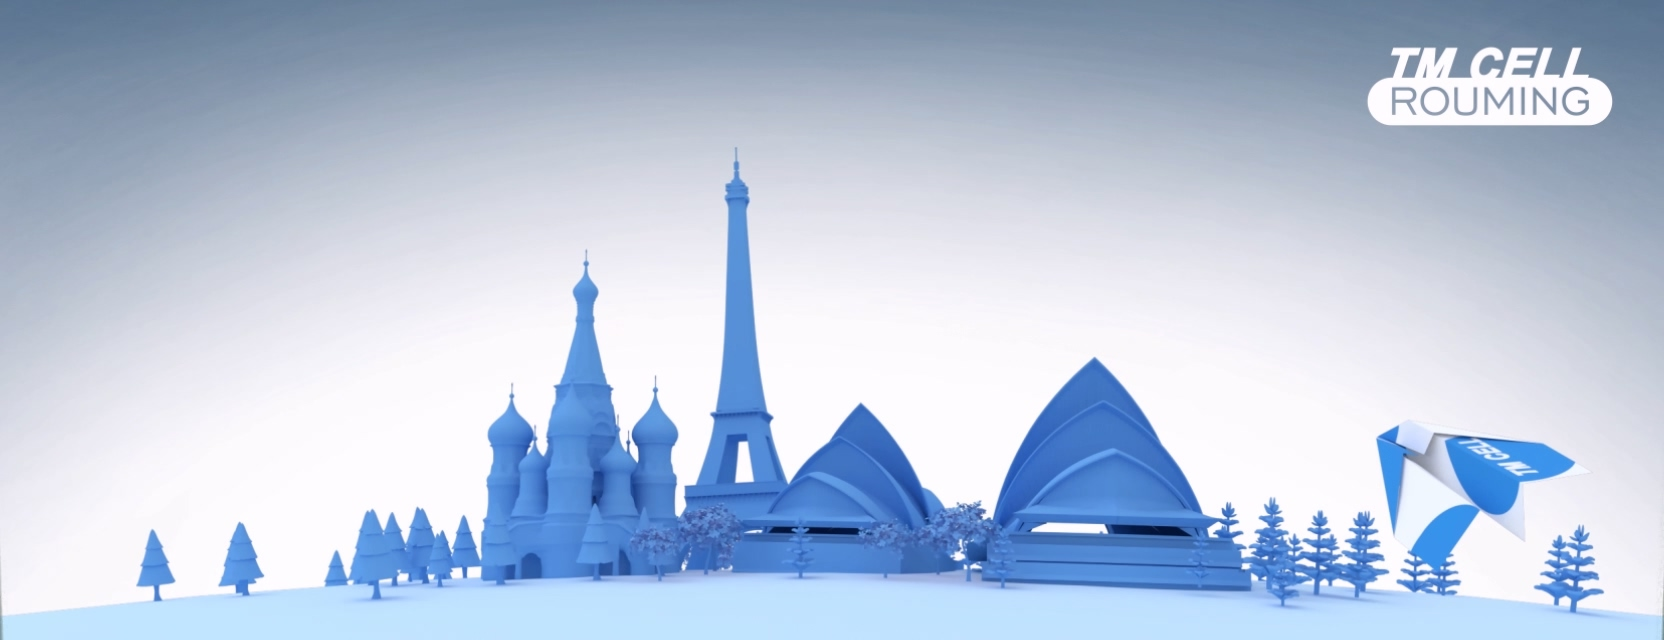
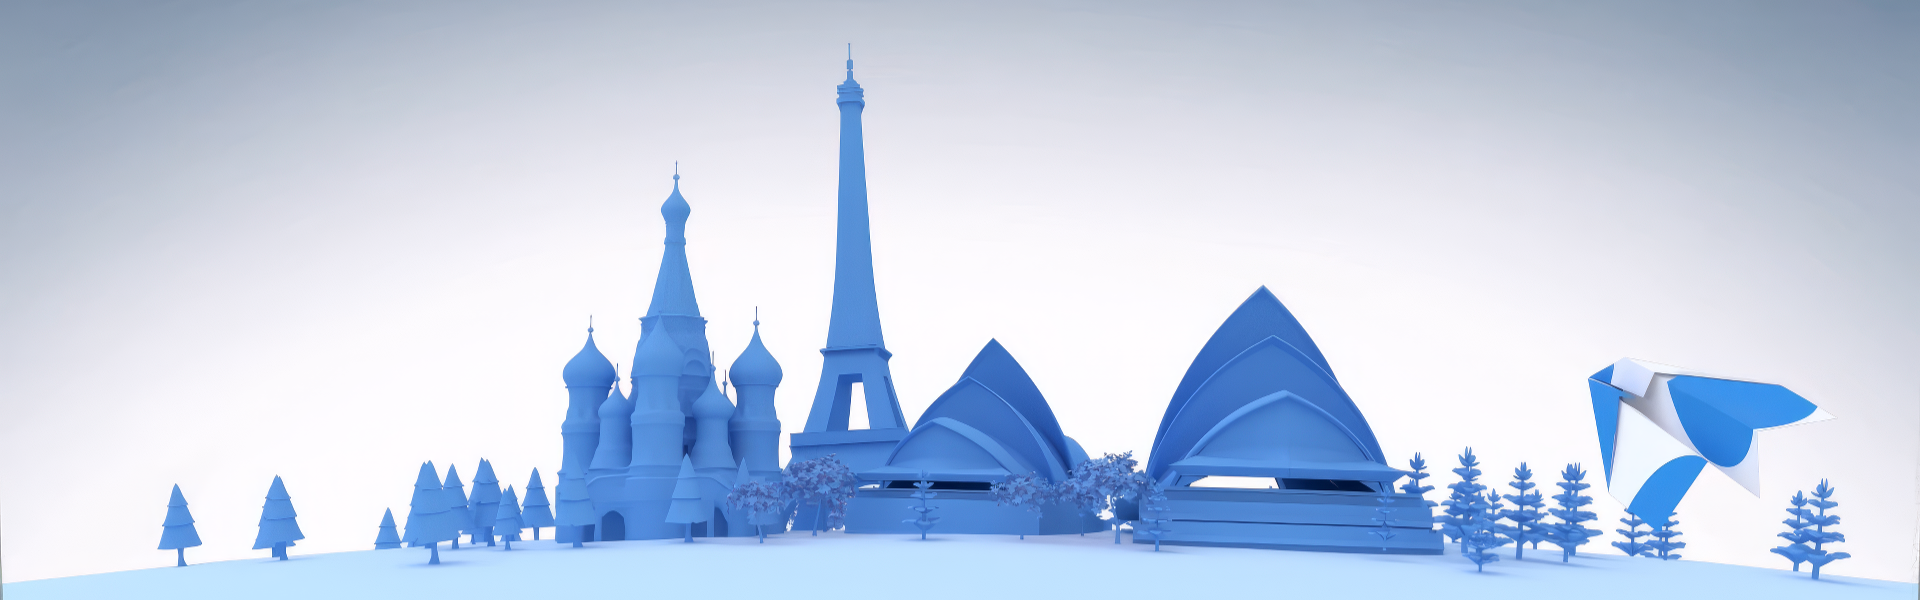
small hero sections

diff --git a/src/components/HeroSection.tsx b/src/components/HeroSection.tsx
@@ -46,10 +46,16 @@ const HeroSection = (props: IProps) => {
       <section
         className={clsx('relative overflow-hidden text-center', {
           'md:h-screen sm:h-[456px] h-[380px]': props.size === 'big',
-          'h-[360px] sm:h-[400px] lg:h-[460px]': props.size === 'small',
+          'h-[360px] sm:h-[400px] lg:h-[600px]': props.size === 'small',
         })}>
         {props.size === 'small' || (props.size === 'big' && props.page === 'services') ? (
-          <img src={props.banner} alt="" className={clsx('w-full h-full object-cover')} />
+          <img
+            src={props.banner}
+            alt="banner"
+            className={clsx('w-full h-full object-cover', {
+              'object-bottom': props.size === 'small',
+            })}
+          />
         ) : (
           <img src={props.banner} alt="" className="w-full h-full object-cover" />
         )}
